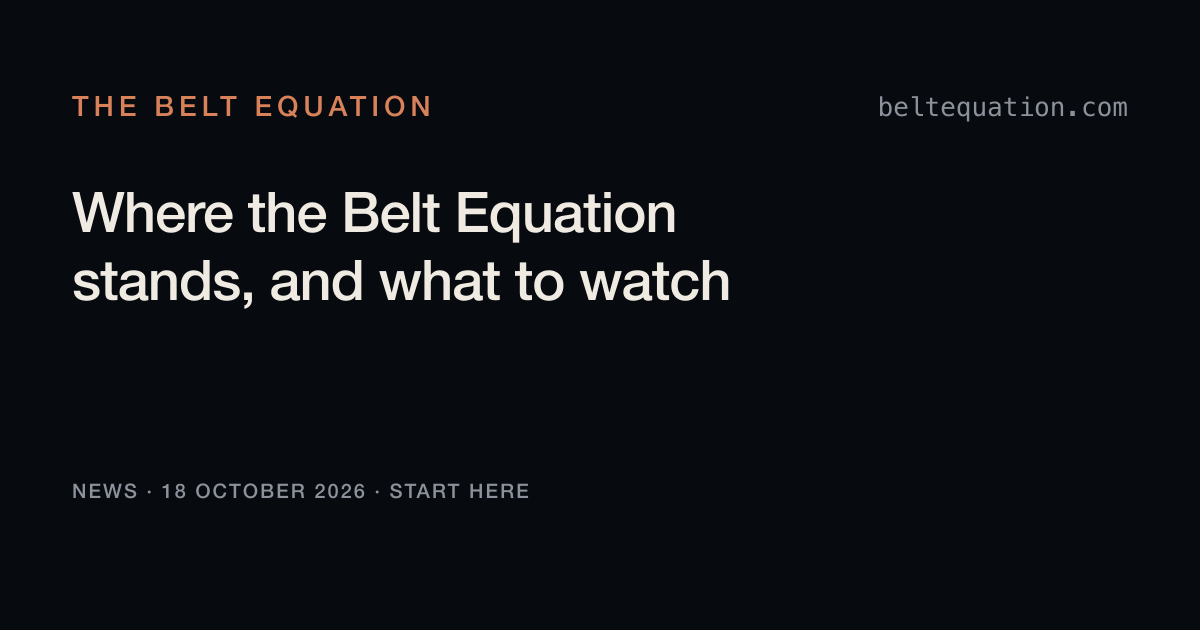
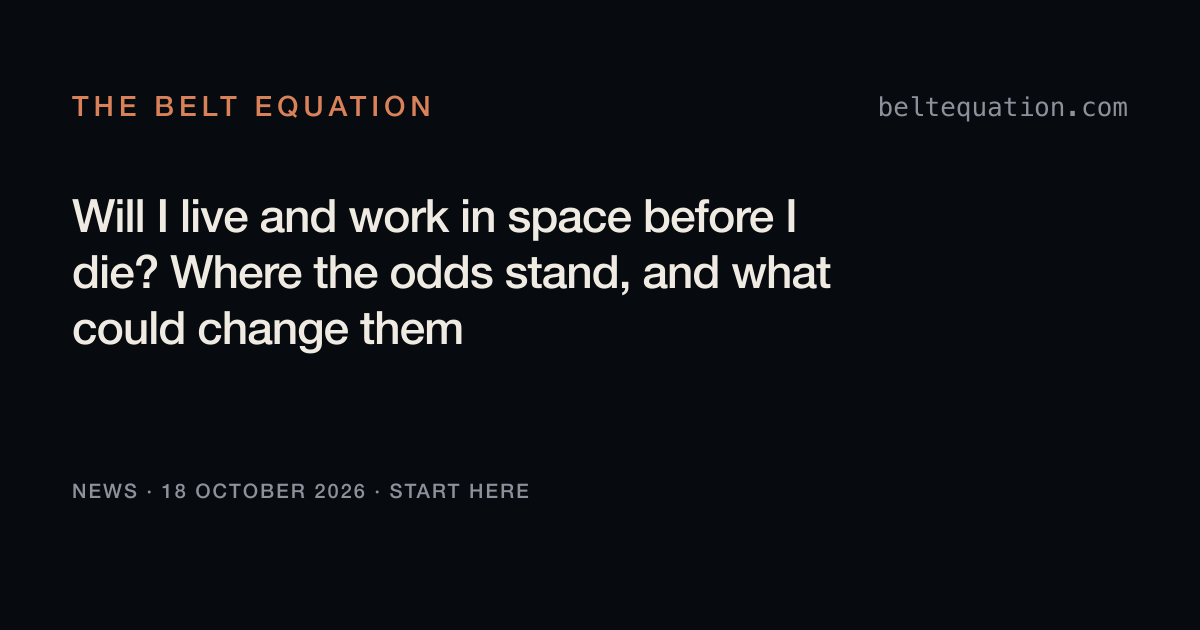
2026-10-19: the opening news post rewritten as a short story for a reader new to the site (tracker pattern rule 4.19, ruled by John 2026-10-19): it opens on John's wish to leave the planet and why he wants real odds, then where they stand, why the number is so small, how it moves, what has happened 

Changed region(s): [[0.0617, 0.3016, 0.7092, 0.573]]

diff --git a/site/src/content/news/2026-10-18-start-here.md b/site/src/content/news/2026-10-18-start-here.md
@@ -1,81 +1,65 @@
 ---
-title: "Where the Belt Equation stands, and what to watch"
+title: "Will I live and work in space before I die? Where the odds stand, and what could change them"
 date: 2026-10-18
 kind: start-here
-summary: What the site asks and how the tree works out the odds, where the numbers stand as of the run of 11 October 2026, how to follow them week by week, the most interesting news so far, and what to watch for.
+summary: I built this site to work out my real odds of living and working in space, and to update them as the world moves. This first post says where the number stands, why it is so small, what has happened since the site began, and what to watch next.
 sources:
-  - label: The headline file, the numbers as they stand
-    url: https://beltequation.com/data/headline.json
-  - label: The method
+  - label: The home page, with the numbers as they stand
+    url: https://beltequation.com/
+  - label: The story of every change to the number
+    url: https://beltequation.com/story/
+  - label: The weekly readings
+    url: https://beltequation.com/radar/
+  - label: The ten steps that would move the number most
+    url: https://beltequation.com/next/
+  - label: How the numbers are worked out
     url: https://beltequation.com/method/
 ---
 
-The Belt Equation asks one question: what is the probability that, before I die, I live and work in a solar system where human industry reaches beyond Earth and Mars? I want to leave the planet before I die, and I would rather know my real odds than keep the wish vague. So I wrote down the things that would have to happen first, gave each a test of what would count and a probability, and let the tree work out the answer. A number can be argued with step by step, and every January the steps that were settled during the year are scored against what actually happened.
+I'm 40 years old, and I want to leave the planet before I die, to live and work out there for months at a time. The name of this site comes from the Belters of the TV series [The Expanse](https://en.wikipedia.org/wiki/The_Expanse_%28TV_series%29): the people who live and work in the asteroid belt, far from Earth, at home where nobody thought people could be. I want to see a solar system like that unfold, and to be part of it. Wanting it is easy. I would rather [know my real odds](/#who) than keep the wish vague.
 
-This is the start of the site's news section. When the weekly reading finds something that moves the tree, or big news that should have moved it and did not, I will write it up here beside the record it explains. A quiet week gets no post. The longer story of why I built the project is in [the essay that introduced it](https://sentient-horizons.com/essays/the-belt-equation/).
+So I built this site to work them out in public. It asks one question: what is the probability that, before I die, I live and work in a solar system where human industry reaches beyond Earth and Mars? Two things have to come true for that: industry has to get out there, and I have to be one of the people working in it.
 
-## Where the numbers stand
+To answer the question, I wrote down everything that would have to happen first, gave each step a plain test of what would count and a chance of it happening, and linked the steps by which ones depend on which. The math then works out the answer from all of them together, and [the whole set of steps](/tree/) is drawn as one picture. A number built that way can be argued with one step at a time. Every January, the steps whose outcome became known during the year are checked against what actually happened, so the site finds out whether its guesses were any good.
 
-As of the run of 11 October 2026, the headline is 0.5 percent: the chance that, by 2071, I am working off Earth on rotation, which means months at a time living and working at an off-world site. 2071 is the year I reach my life expectancy, at about 85. Beside it sits a nearer number, 9.3 percent, the chance that I work a rotation at a station or a lunar base whether or not industry ever goes further. The bar the question sets, human industry beyond Earth and Mars with or without me, comes out at 0.8 percent ([the headline file](/data/headline.json)).
+This is the start of the site's news. When something moves my odds, or big news should have moved them and did not, I will write it up here. A quiet week gets no post. The longer story of why I started is in [the essay that introduced the project](https://sentient-horizons.com/essays/the-belt-equation/). And if you have ever wondered whether you will see people living off Earth in your own lifetime, [the same calculation runs for your birth year](/run/).
 
-A longer life would raise those odds, and [a dial on the home page](/) shows by how much: 1.2 percent if medicine adds about a decade, 3.8 percent if I make it to 109, 10.8 percent with a 150-year life, and 14.8 percent if ageing is solved outright and the calendar stops mattering.
+## Where the Odds Stand
 
-The headline is small because seven things all have to go right, and multiplying seven maybes gives a small number even when no single link looks hopeless. By 2071 the seven stand at 14 percent for cheap launch, 75 percent for power out there, 6.8 percent for ships fast enough to make the trip routine, 9.7 percent for bodies that hold up, 5.9 percent for a reason to go, 21 percent for governments that do not wreck it, and 9.3 percent for a seat for me. Behind the seven are [81 smaller steps](/tree/), each with its own test, and because they lean on each other the headline is worked out from the whole tree.
+As of the last calculation, on 11 October 2026, [my odds are half a percent](/): a 0.5 percent chance that by 2071 I am living and working at a site off Earth, months at a time. 2071 is the year I reach my life expectancy, at about 85.
 
-## How to follow it
+The two parts of the question come out very differently. The chance that human industry reaches beyond Earth and Mars at all, with or without me, is [only 0.8 percent](/). The chance that I work months at a time at a space station or a base on the Moon, whether or not industry ever goes further, is much higher, at 9.3 percent.
 
-Every Sunday evening, Pacific time, a fresh session searches for what the world did against each step's test and writes down what it found, whether or not anything moved. It may change a number by a small amount on a public source, or mark a step as having happened when two independent records agree; anything bigger it leaves for me. Most weeks it reads the 17 steps that could be decided within about five years, and the first reading of each month reads the whole tree ([the Radar](/radar/)).
+A longer life would raise my odds, and [a dial on the home page](/#dial) shows by how much: from half a percent to 1.2 percent if medicine adds about a decade, and to 14.8 percent if ageing is solved outright and the calendar stops mattering.
 
-Each week's reading is on [the Radar](https://beltequation.com/radar/). [The Story](https://beltequation.com/story/) keeps every change to the number with its cause, [Next](https://beltequation.com/next/) lists the ten steps that would move it most, and [Your Odds](https://beltequation.com/run/) runs the tree against your own birth year. [The Method](https://beltequation.com/method/) explains how the numbers are worked out and who did what. [The feed](/news/feed.xml) carries every post in this section.
+## Why the Number Is So Small
 
-## The most interesting news so far
+[Seven things](/#chain) all have to go right: getting to orbit has to get cheap, there has to be a power supply out there, ships have to be fast enough to make the trip routine, bodies have to hold up, people need a reason to go, governments must not wreck it, and there has to be a seat for me. Each is a maybe. The likeliest, the power supply, stands at 75 percent by 2071; the weakest, a reason for people to go, stands at 5.9 percent. Put seven maybes together and the chance of all of them coming true is small, even when no single one looks hopeless.
 
-[The first run](/story/), on 19 September 2026, came out at zero by 2071. Read against common sense, that result failed, and the fault turned out to be in the method: the calculation treated every step as an independent roll of the dice, when the steps lean on each other. Fixing that was one of four rulings I made that day, and the second run came out at 0.9 percent.
+What the number gives me is a map. It shows which steps are likely to move in the next few years, so I know where to watch, and which ones would move my odds the most.
 
-The next day the whole tree went to outside reviewers with a fixed brief: name a missing step, challenge a test, argue a number up or down. I ruled on [105 points they raised](/story/), and on 20 September 2026 the headline fell from 0.9 percent to 0.4 percent. Most of the fall came from seven new requirements on the chain.
+## How the Number Moves
 
-On 25 September 2026 [I changed how every step is written](/story/#2026-09-25-food-made-on-site-counts-however-it-is-made), so that it names the thing it needs and not one way of getting it: lunar mining now waits on power through the lunar night from any source, where it used to wait on a nuclear reactor. The headline rose from 0.47 to 0.59 percent, about the width of the noise.
+Every Sunday evening, Pacific time, an automated search checks the week's news against the test of each step that could be settled within about five years, and the first search of each month checks every step. What it finds is written down whether or not anything moved. It may change a chance by a small amount on the strength of a public source, or mark a step as done when two independent sources confirm it; anything bigger waits for me. Every weekly reading is kept on [the site's Radar page](/radar/), and [the Method page](/method/) explains how the numbers are worked out and who does what.
 
-On 28 September 2026 SpaceX's rocket [Starship](https://www.spacex.com/vehicles/starship/) reached orbit for the first time ([the story](/story/#2026-10-04-starship-reaches-orbit-no-recovery)). Neither stage was caught, so the launch steps stayed where they were and the number held still. That is the tree doing its job: famous news that does not meet a step's test moves nothing.
+## What Has Happened So Far
 
-On 6 October 2026 OpenAI posted [372 families of machine-made mathematics results](https://github.com/openai/math) ([the story](/story/#2026-10-11-openai-math-batch-not-peer-reviewed)), which bear on a line I track beside the equation and never multiply into it: a non-human mind producing knowledge beyond us. None was peer reviewed yet, so that line stayed where it was.
+[The site's first calculation](/story/), on 19 September 2026, said zero: no chance at all by 2071. That was plainly wrong, and the fault was in the method. It treated every step as if it had nothing to do with the others, when in fact the steps lean on each other. Fixing that was one of four changes I made that day, and the second calculation came out at 0.9 percent.
 
-Since the review landed on 20 September the headline has stayed near half a percent, and in [six weekly readings](/radar/) no number has moved.
+The same day, I sent every step out for outside review, with the same instructions for each reviewer: name a missing step, challenge a test, argue a number up or down. I decided each of the [105 points they raised](/story/#2026-09-20-nine-steps-added-seven-of-them-on-the-chain), and on 20 September 2026, with those decisions in, my odds fell from 0.9 percent to 0.4 percent. Most of the fall came from seven new steps that now also have to go right.
 
-## What to watch for
+The first big news from outside came on 28 September 2026, when [SpaceX](https://www.spacex.com/)'s giant rocket [Starship](https://www.spacex.com/vehicles/starship/) reached orbit for the first time. Neither part of the rocket was recovered, and recovery is what the launch steps test for, so [nothing moved](/story/#2026-10-04-starship-reaches-orbit-no-recovery). That is the site working as it should: famous news that does not pass a step's test changes nothing.
 
-The nearest event is Starship's [Flight 15](https://en.wikipedia.org/wiki/Starship_flight_15), which [the reading of 11 October 2026](/radar/) said would make the first attempt to catch the ship. SpaceX has announced no date; that reading had it no earlier than 19 October, and the latest planning date I can find is no earlier than 8 November 2026. The step it bears on counts only when a launcher's two stages are both retrieved intact from one orbital flight and the operator confirms they can fly again, and even then it is worth about 0.14 points on the 2080 figure, because the tree already expects it.
+Since 20 September my odds have stayed near half a percent, and in [six weekly readings](/radar/) nothing has moved.
 
-The steps that would move the number most are slower and have no date. At the top of [the Next list](/next/) is a space traffic authority among the major powers that can enforce rules on manoeuvres and launch windows, worth about 0.27 points on the 2080 figure, a rise of about a fifth. After it come shielding that halves a crew's radiation dose in deep space, and a tonne of propellant made from off-Earth material fired in a rocket engine.
+## What to Watch
 
-[The readings](/radar/) are also following two dated plans: Vast's [Haven-1](https://www.vastspace.com/haven-1), a small commercial space station, now launches no earlier than the first quarter of 2027, and NASA's [Space Reactor-1 Freedom](https://en.wikipedia.org/wiki/Space_Reactor-1_Freedom), a spacecraft with a reactor making more than 20 kilowatts, is proposed for December 2028. A plan is not an event, and the tree moves only on events.
+The nearest event is Starship's next flight, [Flight 15](https://en.wikipedia.org/wiki/Starship_flight_15), which is expected to make the first attempt to recover the rocket's upper part. SpaceX has announced no date, and the latest planning date I can find is no earlier than 8 November 2026. The step it bears on counts only when both parts of one rocket come back intact from one flight to orbit and the company that flew it confirms they can fly again. Even then it would move my odds only a little, because the calculation already expects it to happen.
 
-On [the site's own calendar](/method/), the next whole-tree reading is on 1 November 2026, and the first annual review, when every number is re-estimated, is on 3 January 2027.
+The steps that would matter most are slower and have no date. At the top of [the list of steps that would move my odds most](/next/) is a space traffic authority among the major powers, able to enforce rules on how spacecraft move and when rockets launch. No other step that could happen next would move my odds as far. After it come shielding that halves the radiation a crew takes in deep space, and a tonne of rocket fuel made from material found off Earth and burned in a rocket engine.
 
----
+I am also following two plans with dates on them: [Vast](https://www.vastspace.com/)'s [Haven-1](https://www.vastspace.com/haven-1), a small commercial space station, now due no earlier than the first quarter of 2027, and [NASA](https://www.nasa.gov/)'s [Space Reactor-1 Freedom](https://en.wikipedia.org/wiki/Space_Reactor-1_Freedom), a spacecraft powered by a nuclear reactor, proposed for December 2028. A plan is not an event, so neither moves my odds until it flies.
 
-## Sources
+The next monthly search, the one that checks every step, is on 1 November 2026, and [the first yearly review](/method/), when every number is estimated afresh, is on 3 January 2027.
 
-Every fact above was checked on 2026-10-18 against the page or record named here. Repository paths are on the `main` branch of [github.com/jfredson/belt-equation](https://github.com/jfredson/belt-equation) at commit `ef80607`.
-
-- The question: the home page's description, https://beltequation.com/ (also `README.md` line 3 and `docs/definitions.md`, "The question").
-- "I want to leave the planet before I die …": https://beltequation.com/ , "Who is asking".
-- Settled steps scored each January: https://beltequation.com/method/ , "Scoring the forecasts".
-- Headline 0.5 percent (0.00465), second number 9.3 percent, the bar (the third milestone) 0.8 percent, the four longer-life figures (0.01205, 0.03775, 0.1075, 0.1484), run date 2026-10-11: https://beltequation.com/data/headline.json . Plain names of each: https://beltequation.com/ (the dial) and `data/tiers.toml`.
-- 2071 as life expectancy at about 85: https://beltequation.com/ , the dial note.
-- The seven links and their figures by 2071, "the weakest link is a reason to go", "not independent dice", 81 smaller steps: https://beltequation.com/ , "Why so low".
-- Five deadlines never combined: https://beltequation.com/method/ .
-- What the weekly reading does and may do: https://beltequation.com/radar/ (introduction); `docs/scan-procedure.md` sections 0 and 1. Sunday evenings, Pacific time: `README.md` line 42 ("every Sunday at 18:00 Pacific"). The 17 near-term steps and the whole tree on the first reading of each month: `docs/scan-procedure.md` section 0. Annual review 2027-01-03: `README.md` line 43.
-- Pages: https://beltequation.com/radar/ , /story/ , /next/ , /run/ , /method/ , /feedback/ (all opened 2026-10-18). No feed: /rss.xml and /feed.xml return 404; the planned feed is step 33 of `docs/ledger-plan.md`.
-- First run zero, the world draw and the four rulings, second run 0.9 percent: `CHANGELOG.md` lines 102 to 104; `docs/runs/2026-09-19-first-run.md`.
-- The outside review, 105 rulings, 0.9 to 0.4 percent on 2026-09-20 and what caused the fall: `CHANGELOG.md` lines 74 and 80; `docs/reviews/2026-09-19-rulings.md`; the brief as worded on https://beltequation.com/method/ , "Where the numbers come from".
-- Function over route, 0.47 to 0.59 percent: `CHANGELOG.md` line 60; https://beltequation.com/method/ , "The thing needed, not one way of getting it".
-- Starship in orbit 2026-09-28 with neither stage caught, number held: ledger entry `2026-10-04-starship-reaches-orbit-no-recovery` in `data/ledger.toml`; `data/scans/2026-10-04.toml`; https://www.space.com/space-exploration/launches-spacecraft/starship-just-reached-orbit-for-the-1st-time-whats-next-for-the-spacex-megarocket
-- 372 mathematics results, none peer reviewed, the Contact Clause (the line beside the equation) unchanged and never multiplied in: ledger entry `2026-10-11-openai-math-batch-not-peer-reviewed`; `data/scans/2026-10-11.toml`; https://beltequation.com/ (the equation line).
-- Near half a percent since 2026-09-20, no number moved by a reading: `README.md` lines 38 and 42.
-- Flight 15 and the first ship catch attempt, "no earlier than 2026-10-19": `data/scans/2026-10-11.toml` line 58. Latest planning date, no earlier than 2026-11-08, from an air-traffic planning conference of 2026-10-08: https://en.wikipedia.org/wiki/Starship_flight_15 (opened 2026-10-18).
-- The both-stages step, its test and its worth (+0.14 points by 2080): `data/L-launch.toml`; https://beltequation.com/next/
-- Space traffic authority (+0.27 points, +22 percent), radiation shielding, off-Earth propellant: https://beltequation.com/next/ , the list from the run of 2026-10-11.
-- Haven-1 no earlier than the first quarter of 2027: https://payloadspace.com/vast-delays-haven-1-launch-to-2027/ (cited in `data/scans/2026-09-19.toml`).
-- Space Reactor-1 Freedom, more than 20 kilowatts, proposed for December 2028: https://en.wikipedia.org/wiki/Space_Reactor-1_Freedom , citing https://www.nasaspaceflight.com/2026/03/nasa-sr1-freedom-mars-2028/ (cited in `data/scans/2026-10-11.toml`).
-- The whole-tree reading on 2026-11-01: the scope rule in `docs/scan-procedure.md` section 0, applied to the first Sunday of November.
+*Corrected 2026-10-19:* the outside review [began on 19 September 2026](/story/), the same day as the first calculation; this post first said it began the next day.

diff --git a/docs/news/2026-10-18-start-here-checks.md b/docs/news/2026-10-18-start-here-checks.md
@@ -1,0 +1,114 @@
+# The opening news post: sources and checks
+
+The post: `site/src/content/news/2026-10-18-start-here.md`, live at https://beltequation.com/news/2026-10-18-start-here/ .
+It went up on 2026-10-18 and was rewritten on 2026-10-19 under tracker pattern rule 4.19 (ruled by John
+2026-10-19: a news post is a short story for a reader who has never seen the site). The rule keeps file
+names, field names and sources-by-path out of the post's body, so the full fact check that used to sit
+at the foot of the post lives here, and the post itself now shows a one-line list of the site's pages
+it rests on (the sources line under every post, which the opener now carries too).
+
+## The rewrite, 2026-10-19
+
+- New title: "Will I live and work in space before I die? Where the odds stand, and what could change them"
+  (was "Where the Belt Equation stands, and what to watch"). New summary, opening on the human question.
+- Opens on John's wish to leave the planet and why he wants odds, not a mood; then the question; then
+  how the steps are built; then the news section's purpose.
+- Kept every figure as the record has it as of the post's date (the run of 2026-10-11): 0.5, 0.8 and
+  9.3 percent; 1.2 and 14.8 percent on the dial; 75 and 5.9 percent for the likeliest and weakest of the
+  seven links; zero, 0.9 and 0.4 percent for the first runs; 105 points; six readings; 8 November 2026;
+  first quarter of 2027; December 2028; 1 November 2026; 3 January 2027.
+- Left out, as detail for the record pages rather than the story: the five other link figures, the
+  3.8 and 10.8 percent dial figures, the 81 and 17 step counts, the 0.14 and 0.27 point worths (the
+  traffic authority is now "no other step that could happen next would move my odds as far", which is
+  what being first on the Next list means), the 25 September 2026 rewording of every step (0.47 to 0.59
+  percent), OpenAI's 372 mathematics result families (a side question the cold reader could not place),
+  and the reactor's 20 kilowatts. Each is still on the page it was drawn from.
+- **Correction.** The old post said the outside review went out "the next day" after the first run.
+  The record says otherwise: the reviews were filed and all 105 rulings made on 2026-09-19, the day of the
+  first run (`CHANGELOG.md`, 2026-09-19, "Step 27 RULED" and reviews 1 to 6 filed; the rulings document's
+  status line), and they landed on the tree on 2026-09-20, when the headline fell to 0.4 percent. The
+  rewrite says "the same day" and carries a dated one-line correction.
+- "A fresh session searches" became "an automated search checks", the plain and honest description
+  that names no tool; the Method page says who does what.
+
+## Sources of the facts, re-opened 2026-10-19
+
+Every link in the post was opened on 2026-10-19 and resolved (OpenAI's home page is no longer linked).
+Figures were checked again on 2026-10-19 against https://beltequation.com/data/headline.json (computed
+2026-10-11, last reading 2026-10-18, nothing moved), the home page's seven links (14, 75, 6.8, 9.7, 5.9,
+21 and 9.3 percent by 2071), the Next list from the run of 2026-10-11, Wikipedia's Starship flight 15
+page (launch "NET November 8, 2026") and its Space Reactor-1 Freedom page ("proposed for launch in
+December 2028"). The Expanse and "at home where nobody thought people could be" and "I want to see a
+solar system like that unfold": the home page, "Why the name". "40 years old": the home page, "Who is
+asking". "An automated search", the weekly and monthly scope: the Radar page's introduction and
+`docs/scan-procedure.md` section 0.
+
+The fact check as the original post carried it, checked on 2026-10-18 at commit `ef80607`:
+
+Every fact above was checked on 2026-10-18 against the page or record named here. Repository paths are on the `main` branch of [github.com/jfredson/belt-equation](https://github.com/jfredson/belt-equation) at commit `ef80607`.
+
+- The question: the home page's description, https://beltequation.com/ (also `README.md` line 3 and `docs/definitions.md`, "The question").
+- "I want to leave the planet before I die …": https://beltequation.com/ , "Who is asking".
+- Settled steps scored each January: https://beltequation.com/method/ , "Scoring the forecasts".
+- Headline 0.5 percent (0.00465), second number 9.3 percent, the bar (the third milestone) 0.8 percent, the four longer-life figures (0.01205, 0.03775, 0.1075, 0.1484), run date 2026-10-11: https://beltequation.com/data/headline.json . Plain names of each: https://beltequation.com/ (the dial) and `data/tiers.toml`.
+- 2071 as life expectancy at about 85: https://beltequation.com/ , the dial note.
+- The seven links and their figures by 2071, "the weakest link is a reason to go", "not independent dice", 81 smaller steps: https://beltequation.com/ , "Why so low".
+- Five deadlines never combined: https://beltequation.com/method/ .
+- What the weekly reading does and may do: https://beltequation.com/radar/ (introduction); `docs/scan-procedure.md` sections 0 and 1. Sunday evenings, Pacific time: `README.md` line 42 ("every Sunday at 18:00 Pacific"). The 17 near-term steps and the whole tree on the first reading of each month: `docs/scan-procedure.md` section 0. Annual review 2027-01-03: `README.md` line 43.
+- Pages: https://beltequation.com/radar/ , /story/ , /next/ , /run/ , /method/ , /feedback/ (all opened 2026-10-18). No feed: /rss.xml and /feed.xml return 404; the planned feed is step 33 of `docs/ledger-plan.md`.
+- First run zero, the world draw and the four rulings, second run 0.9 percent: `CHANGELOG.md` lines 102 to 104; `docs/runs/2026-09-19-first-run.md`.
+- The outside review, 105 rulings, 0.9 to 0.4 percent on 2026-09-20 and what caused the fall: `CHANGELOG.md` lines 74 and 80; `docs/reviews/2026-09-19-rulings.md`; the brief as worded on https://beltequation.com/method/ , "Where the numbers come from".
+- Function over route, 0.47 to 0.59 percent: `CHANGELOG.md` line 60; https://beltequation.com/method/ , "The thing needed, not one way of getting it".
+- Starship in orbit 2026-09-28 with neither stage caught, number held: ledger entry `2026-10-04-starship-reaches-orbit-no-recovery` in `data/ledger.toml`; `data/scans/2026-10-04.toml`; https://www.space.com/space-exploration/launches-spacecraft/starship-just-reached-orbit-for-the-1st-time-whats-next-for-the-spacex-megarocket
+- 372 mathematics results, none peer reviewed, the Contact Clause (the line beside the equation) unchanged and never multiplied in: ledger entry `2026-10-11-openai-math-batch-not-peer-reviewed`; `data/scans/2026-10-11.toml`; https://beltequation.com/ (the equation line).
+- Near half a percent since 2026-09-20, no number moved by a reading: `README.md` lines 38 and 42.
+- Flight 15 and the first ship catch attempt, "no earlier than 2026-10-19": `data/scans/2026-10-11.toml` line 58. Latest planning date, no earlier than 2026-11-08, from an air-traffic planning conference of 2026-10-08: https://en.wikipedia.org/wiki/Starship_flight_15 (opened 2026-10-18).
+- The both-stages step, its test and its worth (+0.14 points by 2080): `data/L-launch.toml`; https://beltequation.com/next/
+- Space traffic authority (+0.27 points, +22 percent), radiation shielding, off-Earth propellant: https://beltequation.com/next/ , the list from the run of 2026-10-11.
+- Haven-1 no earlier than the first quarter of 2027: https://payloadspace.com/vast-delays-haven-1-launch-to-2027/ (cited in `data/scans/2026-09-19.toml`).
+- Space Reactor-1 Freedom, more than 20 kilowatts, proposed for December 2028: https://en.wikipedia.org/wiki/Space_Reactor-1_Freedom , citing https://www.nasaspaceflight.com/2026/03/nasa-sr1-freedom-mars-2028/ (cited in `data/scans/2026-10-11.toml`).
+- The whole-tree reading on 2026-11-01: the scope rule in `docs/scan-procedure.md` section 0, applied to the first Sunday of November.
+
+## Plain reading pass, 2026-10-19
+
+Run over the whole post after drafting (`sentient-horizons/editorial/plain-reading-pass.md`). Changes:
+
+- "As of the run of 11 October" became "As of the last calculation, on 11 October"; "first run" and
+  "second run" likewise (rule 7: "run" reads as computer jargon). Fact unchanged: the snapshot of
+  2026-10-11.
+- "a fixed brief" became "the same instructions for each reviewer" (rule 7). Same fact.
+- "I ruled on 105 points" became "I decided each of the 105 points" (rule 7).
+- "seven new requirements on the chain" became "seven new steps that now also have to go right"
+  (rules 2 and 7; checked against the story entry "nine steps added, seven of them on the chain").
+- "neither stage was caught" became "neither part of the rocket was recovered" (rule 7; ledger entry
+  "starship-reaches-orbit-no-recovery").
+- "power out there" became "a power supply out there" (rule 1: a reader took "power" as political).
+- "treated every step as an independent roll of the dice" became "as if it had nothing to do with the
+  others" (rule 1: a reader took the dice as the same as the seven maybes).
+- "Not for a visit, but ..." and "worked out from the whole tree, not by multiplying the seven": the
+  "X, not Y" pairs recast (voice protocol).
+- Bracketed link labels folded into the sentence wherever the sentence allowed it (rule 1).
+- Two explanations drafted from inference and not on the record were cut before review: a reason why
+  the station-or-Moon-base number is higher, and an example of how the steps lean on each other (rule 8).
+
+## Cold-reader checks, 2026-10-19
+
+Two cold reads, each by a reader given only the rendered text and asked to read as John's father: an
+intelligent retired man in his seventies, new to the site, not a space or statistics enthusiast.
+
+First read, of the first draft. Stops: stray link labels; how "industry" and "me" fit together; "the
+tree" unexplained; "run"; the three numbers and why the station number is larger; 9.3 percent appearing
+twice; 2071 against 2080; "percentage points"; too many counts (7, 81, 17); who reads the news; "two
+independent records"; "a fixed brief"; tree against chain; the OpenAI paragraph; "catch" the rocket;
+20 kilowatts. Missing: why he wants space. Cut: how the readings work, the OpenAI paragraph, the
+two plans, the dial's four figures. Acted on: all of it, except that the how-it-works paragraph and the
+two plans were kept shorter (the first is why a reader can trust the number; the second answers John's
+own linking ruling), and the correction stays because a dated correction is owed.
+
+Second read, of the revised draft. Understood: the son's real odds, half a percent, why so low, what
+news could raise them; the personal why came through. Stops: industry on Mars (the question's own
+words, kept); "decided"; "power out there"; who does the checking; dice against maybes; "If medicine
+gives me that extra decade, it would raise my odds by about a fifth" (the worst stop: unclear "it", and
+a fifth set against the dial's doubling); the next reading two weeks away when readings are weekly;
+stray link labels. Acted on: each of these, with the wording above, and a line for the stranger in the
+opening ("the same calculation runs for your birth year").
